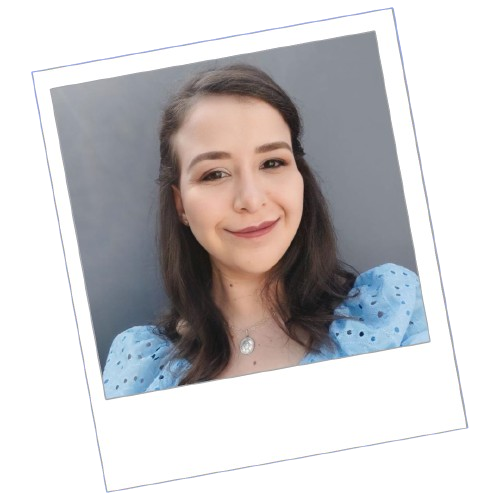
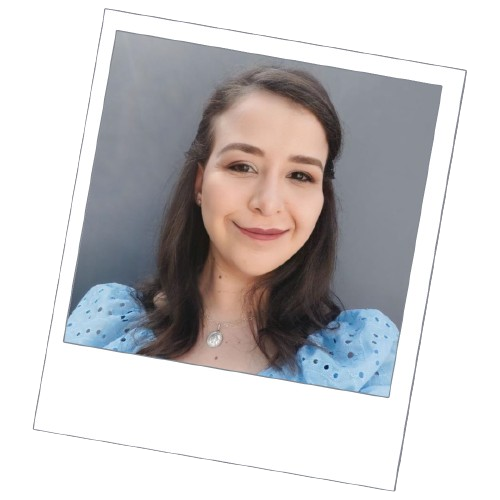
Refatoração do código e melhorias no design da página

diff --git a/index.html b/index.html
@@ -10,52 +10,39 @@
 </head>
 
 <body>
-    <div class="pagina">
-        <div class="pagina-titulo">
-            <section id="banner">
-                <h1>Portfólio pessoal</h1>
-            </section>
-            <h2>Carla Santos de Oliveira</h2>
-            <div class="menu">
-                <ul>
-                    <li><a href="#secao-sobre">Sobre</a></li>
-                    <li><a href="#secao-habilidades">Conhecimento e habilidades</a></li>
-                    <li><a href="#secao-experiencia">Experiência profissional</a></li>
-                    <li><a href="#secao-educacao">Histórico acadêmico</a></li>
-                    <li><a href="#secao-formacao-complementar">Formação complementar</a></li>
-                    <li><a href="#secao-projetos-a-destacar">Projetos a destacar</a></li>
-                    <li><a href="#secao-contato">Contato</a></li>
-                </ul>
-            </div>
-        </div>
-        <div class="sobre">
-            <div class="secao-titulo">
-                <section id="secao-sobre">
-                    <h1>Sobre</h1>
-                </section>
-            </div>
-            <div class="lado-a-lado">
-                <div class="secao-conteudo-imagem">
-                    <img src="img/foto-portfolio.png" width="400" height="400">
-                </div>
-                <div class="secao-conteudo-texto">
-                    <p>
-                        Carla Santos de Oliveira é Técnica em Informática formada pelo Instituto Federal de Educação,
-                        Ciência e Tecnologia do Paraná (IFPR) - Campus Paranavaí, Brasil (2021). Atualmente, é acadêmica
-                        do 3º ano do curso de Bacharelado em Engenharia de Software pela mesma instituição. Atua como
-                        instrutora de robótica no Colégio Paroquial Nossa Senhora do Carmo (Paranavaí-PR) e de
-                        informática no Centro Nacional Integrado de Cursos (CENAIC - Paranavaí-PR).
-                    </p>
-                </div>
-            </div>
-        </div>
-        <div class="habilidades">
-            <div class="secao-titulo">
-                <section id="secao-habilidades">
-                    <h1>Conhecimento e Habilidades</h1>
-                </section>
-            </div>
-            <div class="secao-conteudo" style="text-align: center;">
+    <header class="container" id="menu">
+        <nav class="menu-navegacao">
+            <ul>
+                <li><a href="#secao-sobre">Sobre</a></li>
+                <li><a href="#secao-habilidades">Conhecimento e habilidades</a></li>
+                <li><a href="#secao-experiencia">Experiência profissional</a></li>
+                <li><a href="#secao-educacao">Histórico acadêmico</a></li>
+                <li><a href="#secao-formacao-complementar">Formação complementar</a></li>
+                <li><a href="#secao-contato">Contato</a></li>
+            </ul>
+        </nav>
+    </header>
+    <main class="container">
+        <section id="secao-sobre" class="secao-conteudo">
+            <img class="foto-perfil" src="img/foto-portfolio.png"
+                alt="Foto de Carla Santos de Oliveira">
+            <h1>Sobre mim</h1>
+            <p> Carla Santos de Oliveira é Técnica em Informática formada pelo IFPR - Campus Paranavaí
+                (2021) e acadêmica do 3º ano do curso de Bacharelado em Engenharia de Software pela mesma instituição.
+            </p>
+            <br>
+            <a href="http://lattes.cnpq.br/7090669122112491" target="_blank" rel="noopener noreferrer"
+                title="Currículo Lattes"><img src="img/icon-lattes.png" alt="Currículo Lattes"
+                    style="width:50px;height:50px;"></a>
+            <a href="https://github.com/carlasoliveira" target="_blank" rel="noopener noreferrer" title="GitHub"><img
+                    src="img/icon-github.png" alt="GitHub" style="width:50px;height:50px;"></a>
+            <a href="https://www.linkedin.com/in/carlasdeoliveira" target="_blank" rel="noopener noreferrer"
+                title="LinkedIn"><img src="img/icon-linkedin.png" alt="LinkedIn"
+                    style="width:50px;height:50px;"></a><br>
+        </section>
+        <section id="secao-habilidades">
+            <div class="secao-conteudo">
+                <h1>Conhecimento e Habilidades</h1>
                 <h3>Conhecimentos técnicos</h3>
                 <p>
                     Lógica de programação | Programação para Web | Programação de sistemas embarcados <br>
@@ -63,6 +50,7 @@
                     Django | Java Swing | Vue.js <br>
                     Arduino | Esp32 | Esp8266 | Mindstorms EV3 | GitHub | VSCode
                 </p>
+                <br>
                 <h3>Habilidades pessoais</h3>
                 <p>
                     Adaptabilidade | Boa escrita | Colaboração | Comprometimento <br>
@@ -70,25 +58,23 @@
                     Paciência | Resiliência | Trabalho em equipe
                 </p>
             </div>
-        </div>
-        <div class="experiencia">
-            <div class="secao-titulo">
-                <section id="secao-experiencia">
-                    <h1>Experiência profissional</h1>
-                </section>
-            </div>
+        </section>
+        <section id="secao-experiencia">
             <div class="secao-conteudo">
+                <h1>Experiência profissional</h1>
                 <h4>• Instrutora de Robótica no Colégio Paroquial Nossa Senhora do Carmo</h4>
                 <p>
                     Abril de 2023 - Atualmente <br>
                     Atribuições: ensino de robótica para estudantes do Ensino Fundamental com o Kit Lego Mindstorms EV3.
                 </p>
+                <br>
                 <h4>• Instrutora de Informática no Centro Nacional Integrado de Cursos (CENAIC)</h4>
                 <p>
                     Setembro de 2022 - Atualmente <br>
                     Atribuições: ensino de tópicos de informática básica (Windows, Internet, Word, Excel, PowerPoint,
                     Canva, lógica de programação).
                 </p>
+                <br>
                 <h4>• Agente Censitário Municipal no Instituto Brasileiro de Geografia e Estatística (IBGE)</h4>
                 <p>
                     Junho de 2022 - Outubro de 2022 <br>
@@ -96,14 +82,10 @@
                     Tamboara - PR.
                 </p>
             </div>
-        </div>
-        <div class="educacao">
-            <div class="secao-titulo">
-                <section id="secao-educacao">
-                    <h1>Histórico acadêmico</h1>
-                </section>
-            </div>
+        </section>
+        <section id="secao-educacao">
             <div class="secao-conteudo">
+                <h1>Histórico acadêmico</h1>
                 <h4>• Bacharelado em Engenharia de Software no Instituto Federal do Paraná (IFPR) - Campus Paranavaí
                     (2022 - Atualmente)
                 </h4>
@@ -114,6 +96,7 @@
                     embarcados, Internet das Coisas, impressão 3D e ensino e popularização de tecnologia. <br>
                     • Atuação como representante de turma (2022 - atualmente).
                 </p>
+                <br>
                 <h4>• Técnico em Informática integrado ao Ensino Médio no Instituto Federal do Paraná (IFPR) -
                     Campus Paranavaí (2018 - 2021)
                 </h4>
@@ -130,79 +113,27 @@
                     • Atuação como representante de turma (2019 - 2021).
                 </p>
             </div>
-        </div>
-        <div class="formacao-complementar">
-            <div class="secao-titulo">
-                <section id="secao-formacao-complementar">
-                    <h1>Formação complementar</h1>
-                </section>
-            </div>
+        </section>
+        <section id="secao-formacao-complementar">
             <div class="secao-conteudo">
-                Lorem ipsum dolor sit amet, consectetur adipiscing elit. Aenean tempor tortor placerat ultricies mattis.
-                Mauris tempor sem convallis dui aliquet pellentesque. Donec vel odio at ipsum blandit luctus vel at
-                justo. Vivamus quis iaculis urna. Pellentesque habitant morbi tristique senectus et netus et malesuada
-                fames ac turpis egestas. Donec et ultricies purus. Sed id auctor turpis, sed vehicula est. Praesent
-                metus purus, aliquet quis turpis sit amet, faucibus ullamcorper ligula. Curabitur nec maximus tortor,
-                eget pharetra odio. Duis orci nulla, venenatis a sagittis vel, pulvinar sit amet massa. Suspendisse
-                malesuada eget lorem at vulputate. Phasellus feugiat eu neque suscipit molestie. Donec eget venenatis
-                velit, quis feugiat lorem. Morbi sit amet neque et nulla ornare gravida.
-
-                Nam nec lorem condimentum, lacinia nunc ut, eleifend odio. Class aptent taciti sociosqu ad litora
-                torquent per conubia nostra, per inceptos himenaeos. Aenean a magna at leo blandit scelerisque nec sed
-                enim. Donec lobortis odio commodo justo pharetra, sit amet mollis nisi auctor. Aenean dictum
-                sollicitudin nulla, ac elementum lorem pellentesque in. Ut nec interdum enim. Cras eget pellentesque
-                nisl, sit amet finibus nisi. Etiam pulvinar eget leo at fermentum. Pellentesque sit amet ornare justo.
-                Aenean sed augue neque.
+                <h1>Formação complementar</h1>
+                Lorem, ipsum dolor sit amet consectetur adipisicing elit. Cum, voluptate rerum. Vero tempore dignissimos
+                doloremque omnis consequuntur commodi ab! Fugit illum accusamus sint animi fuga, quo autem. Labore,
+                eligendi deserunt!
             </div>
-        </div>
-        <div class="projetos-a-destacar">
-            <div class="secao-titulo">
-                <section id="secao-projetos-a-destacar">
-                    <h1>Projetos a destacar</h1>
-                </section>
-            </div>
+        </section>
+        <section id="secao-contato">
             <div class="secao-conteudo">
-                Lorem ipsum dolor sit amet, consectetur adipiscing elit. Aenean tempor tortor placerat ultricies mattis.
-                Mauris tempor sem convallis dui aliquet pellentesque. Donec vel odio at ipsum blandit luctus vel at
-                justo. Vivamus quis iaculis urna. Pellentesque habitant morbi tristique senectus et netus et malesuada
-                fames ac turpis egestas. Donec et ultricies purus. Sed id auctor turpis, sed vehicula est. Praesent
-                metus purus, aliquet quis turpis sit amet, faucibus ullamcorper ligula. Curabitur nec maximus tortor,
-                eget pharetra odio. Duis orci nulla, venenatis a sagittis vel, pulvinar sit amet massa. Suspendisse
-                malesuada eget lorem at vulputate. Phasellus feugiat eu neque suscipit molestie. Donec eget venenatis
-                velit, quis feugiat lorem. Morbi sit amet neque et nulla ornare gravida.
-
-                Nam nec lorem condimentum, lacinia nunc ut, eleifend odio. Class aptent taciti sociosqu ad litora
-                torquent per conubia nostra, per inceptos himenaeos. Aenean a magna at leo blandit scelerisque nec sed
-                enim. Donec lobortis odio commodo justo pharetra, sit amet mollis nisi auctor. Aenean dictum
-                sollicitudin nulla, ac elementum lorem pellentesque in. Ut nec interdum enim. Cras eget pellentesque
-                nisl, sit amet finibus nisi. Etiam pulvinar eget leo at fermentum. Pellentesque sit amet ornare justo.
-                Aenean sed augue neque.
-            </div>
-        </div>
-        <div class="contato">
-            <div class="secao-titulo">
-                <section id="secao-contato">
-                    <h1>Contato e outras informações</h1>
-                </section>
-
-            </div>
-            <div class="secao-conteudo" style="text-align: center;">
+                <h1>Contato</h1>
                 <p>
-                    E-mail: contato.carlasoliveira@gmail.com <br>
-                    <a href="http://lattes.cnpq.br/7090669122112491" target="_blank" rel="noopener noreferrer"
-                        title="Currículo Lattes"><img src="img/icon-lattes.png" alt="Currículo Lattes"
-                            style="width:50px;height:50px;"></a>
-                    <a href="https://github.com/carlasoliveira" target="_blank" rel="noopener noreferrer"
-                        title="GitHub"><img src="img/icon-github.png" alt="GitHub" style="width:50px;height:50px;"></a>
-                    <a href="https://www.linkedin.com/in/carlasdeoliveira" target="_blank" rel="noopener noreferrer"
-                        title="LinkedIn"><img src="img/icon-linkedin.png" alt="LinkedIn"
-                            style="width:50px;height:50px;"></a><br>
-                    <a href="#banner"><img src="img/icon-voltar.png" alt="Voltar para o topo"
-                            style="width:50px;height:50px;" title="Voltar para o topo da página"></a>
+                    E-mail: contato.carlasoliveira@gmail.com
                 </p>
             </div>
-        </div>
-    </div>
+        </section>
+    </main>
+    <footer class="container">
+        <p>&copy; 2024 Carla S. Oliveira</p>
+    </footer>
 </body>
 
 </html>

diff --git a/style/estilo.css b/style/estilo.css
@@ -1,20 +1,41 @@
+* {
+  padding: 0;
+  margin: 0;
+}
+
 body {
   background-color: #F1F0F2;
 }
+
 .secao-titulo {
   background-color: #88AABF;
   color: #FFFFFF;
-  padding: 2px;
+  padding: 30px;
   text-align: center;
   font-family: "Copperplate", fantasy;
 }
 
-.pagina-titulo {
+.pagina-titulo,
+header {
   background-color: #739CBF;
   color: #FFFFFF;
   padding: 20px;
   text-align: center;
   font-family: "Copperplate", fantasy;
+  line-height: 1.8;
+}
+
+.foto-perfil{
+  float: right;
+  width: 250px;
+  height: 250px;
+  object-fit: cover;
+}
+
+.clearfix::after{
+  content: "";
+  clear: both;
+  display: table;
 }
 
 .secao-conteudo {
@@ -51,14 +72,16 @@ body {
   line-height: 1.8;
 }
 
-.menu {
+nav {
   display: grid;
   place-items: center;
   font-size: 20px;
 }
 
 /*Tira os marcadores da lista e formata o texto*/
-ul { 
+.menu-navegacao ul {
+
+  justify-content: center;
   list-style-type: none;
   margin: 0;
   padding: 0;
@@ -67,21 +90,37 @@ ul {
   font-family: "Copperplate", fantasy;
 }
 
-/*Coloca os itens do menu lado a lado*/
-li { 
+.menu-navegacao li {
   float: left;
 }
 
 /*Cria o efeito de botão para cada item do menu*/
-li a { 
+.menu-navegacao li a {
   display: block;
   color: white;
   text-align: center;
   padding: 14px 12px;
   text-decoration: none;
-} 
+}
 
 /*Muda a cor dos botões do menu quando o cursor do mouse está sobre ele*/
-li a:hover { 
+.menu-navegacao li a:hover {
   background-color: #88AABF;
+}
+
+.container {
+  max-width: 1200px;
+  padding: 0 20px;
+  margin: auto;
+}
+
+footer{
+  background-color: #739CBF;
+  text-align: center;
+  color: #FFFFFF;
+  font-family: "Copperplate", fantasy;
+  font-size: 20px;
+  padding: 20px;
+  line-height: 2;
+  vertical-align: middle;
 }
